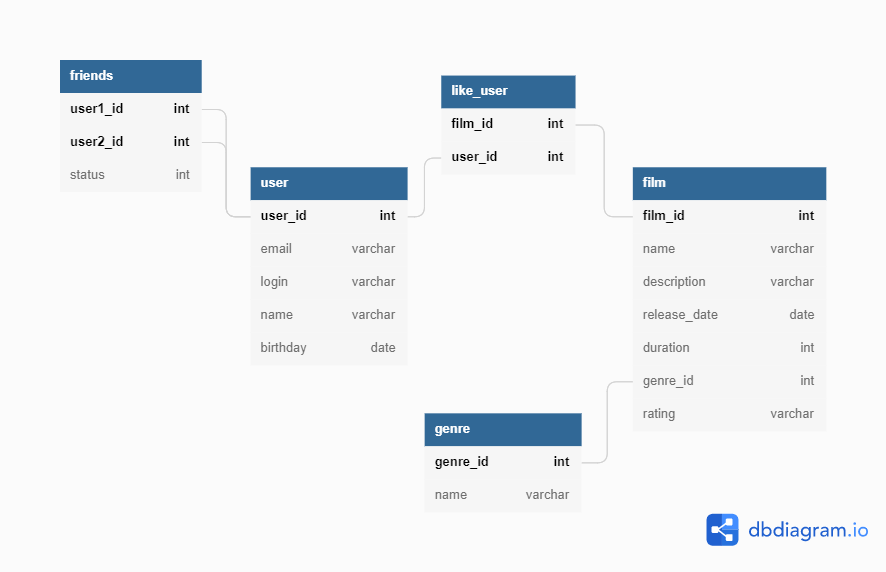
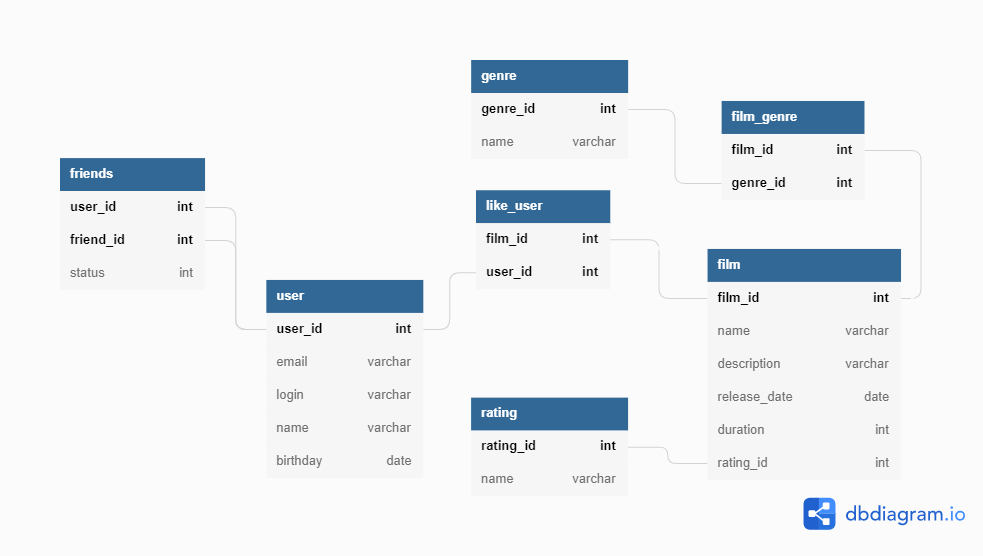
fix: корректировка диаграммы БД

diff --git a/README.md b/README.md
@@ -15,37 +15,37 @@ WHERE user_id = @user_id
 
 Получить всех друзей пользователя
 ```
-SELECT f.user1_id AS users_friends  
+SELECT f.user_id AS users_friends  
 FROM friends AS f  
-WHERE f.user2_id = @user_id  
+WHERE f.friend_id = @user_id  
 AND status = 1  
 UNION  
-SELECT f.user2_id AS users_friends  
+SELECT f.friend_id AS users_friends  
 FROM friends AS f  
-WHERE f.user1_id = @user_id  
+WHERE f.user_id = @user_id  
 AND status = 1  
 ```
 
 Получить общих друзей двух пользователей
 ```
 SELECT af1.users_friends AS mutual_friends
-FROM (SELECT f.user1_id AS users_friends
+FROM (SELECT f.user_id AS users_friends
 FROM friends AS f
-WHERE f.user2_id = @first_user_id
+WHERE f.friend_id = @first_user_id
 AND status = 1
 UNION
-SELECT f.user2_id AS users_friends
+SELECT f.friend_id AS users_friends
 FROM friends AS f
-WHERE f.user1_id = @first_user_id
+WHERE f.user_id = @first_user_id
 AND status = 1) AS af1
-INNER JOIN (SELECT f.user1_id AS users_friends
+INNER JOIN (SELECT f.user_id AS users_friends
 FROM friends AS f
-WHERE f.user2_id = @second_user_id
+WHERE friend_id = @second_user_id
 AND status = 1
 UNION
-SELECT f.user2_id AS users_friends
+SELECT friend_id AS users_friends
 FROM friends AS f
-WHERE f.user1_id = @second_user_id
+WHERE f.user_id = @second_user_id
 AND status = 1) AS af2 ON af1.users_friends=af2.users_friends;
 ```
 
